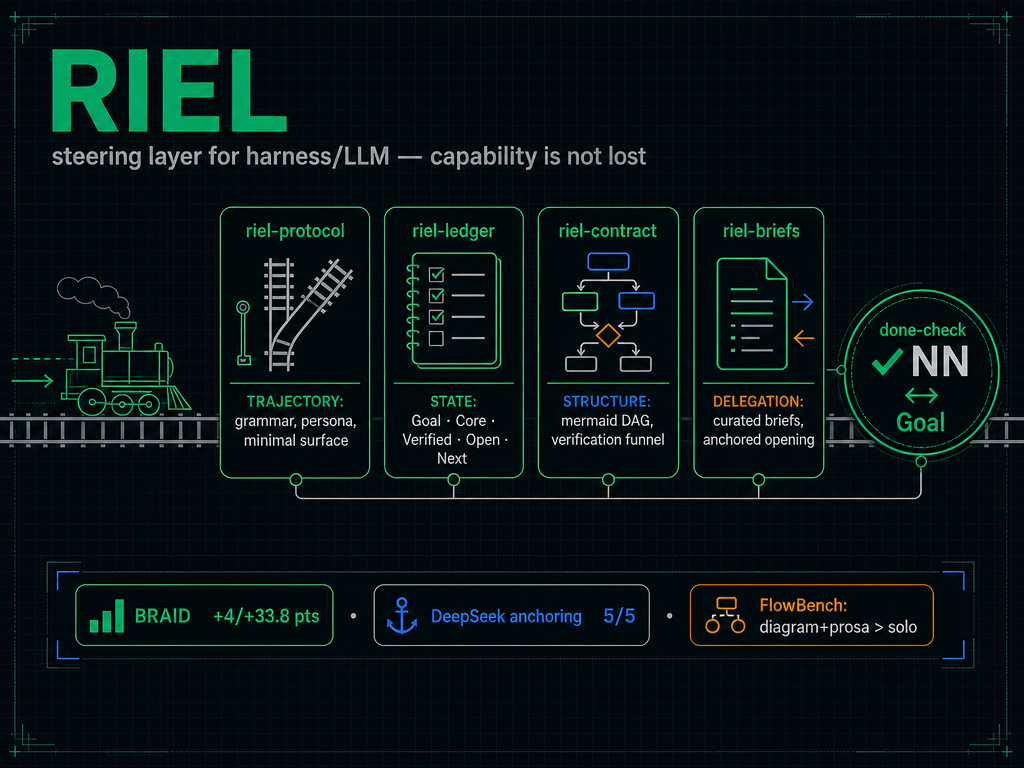
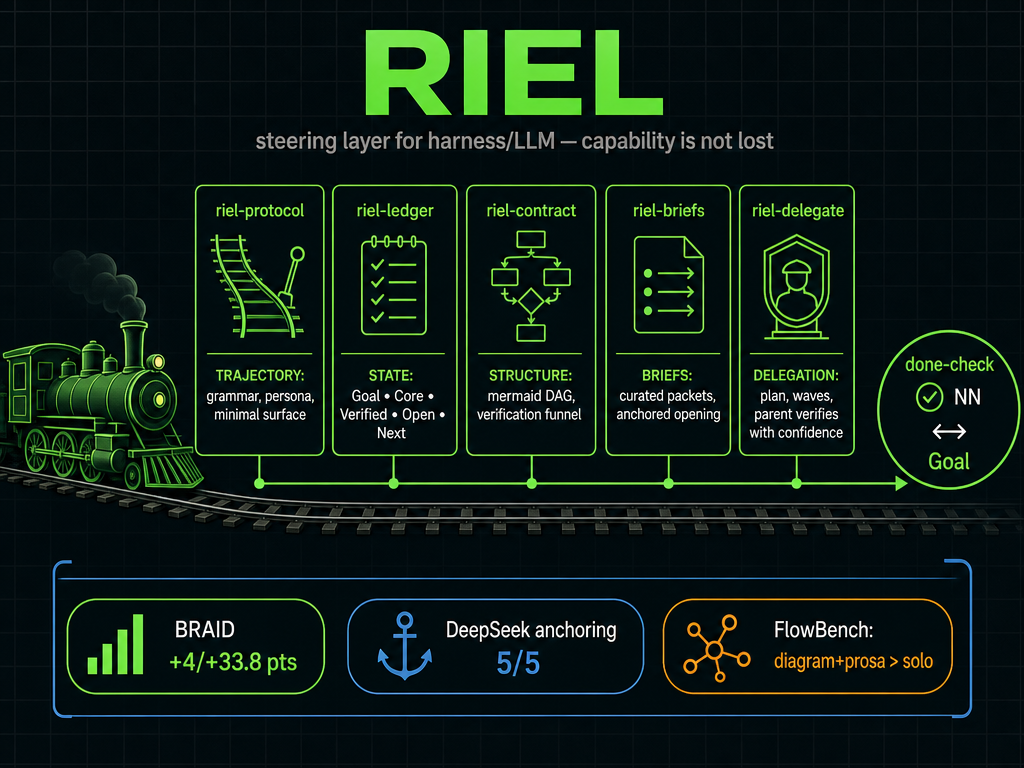
feat: add riel-delegate skill — delegation end-to-end + updated infographic
- riel-delegate: whole Riel framework applied to delegation (plan → brief → dispatch → verify → integrate), with parent-side verification (criteria decomposition + confidence X/20 + re-sample)
- consolidates subagent-wave-dispatch, parallel-subagent-test-authoring, delegated-implementation-planning into one entry-router skill
- README: add riel-delegate component, 5-component infographic, updated How-it-works diagrams, LLM-as-a-Verifier row now includes riel-delegate
- system-prompt: add riel-delegate line

diff --git a/skills/riel-delegate/SKILL.md b/skills/riel-delegate/SKILL.md
@@ -1,0 +1,161 @@
+---
+name: riel-delegate
+description: "Use when delegating to subagents — applies the whole Riel framework to delegation: plan phases as deliverables, dispatch riel-briefs packets, parent verifies returns with confidence X/20. Entry router for the delegation flow."
+version: 1.0.0
+author: Álvaro Lizama
+license: MIT
+metadata:
+  hermes:
+    tags: [riel, delegation, subagents, waves, verification, orchestration]
+    related_skills: [riel-protocol, riel-briefs, riel-contract, riel-ledger]
+---
+
+# riel-delegate — The whole Riel framework applied to delegation
+
+One skill to run Riel end-to-end when delegating to subagents. It does not
+recreate the framework — it orchestrates it: `riel-protocol` opens every
+brief, `riel-briefs` shapes the packet, `riel-contract` structures the
+phases, `riel-ledger` verifies what came back. The parent is the one
+capability that must not be lost: it plans, dispatches, verifies and
+integrates. Children are generators; the parent is the verifier.
+
+## Entry router
+
+```mermaid
+flowchart TD
+  Q{What do you need?} -->|"Plan phases as\\ndeliverables"| P[PLAN · riel-contract]
+  Q -->|"Write a dispatch\\npacket"| B[BRIEF · riel-briefs]
+  Q -->|"Dispatch waves"| D[DISPATCH · waves]
+  Q -->|"Verify what\\ncame back"| V[VERIFY · riel-ledger]
+  Q -->|"Integrate + commit"| I[INTEGRATE]
+  P --> D
+  B --> D
+  D --> V
+  V --> I
+
+  style V fill:#d1fae5,stroke:#059669
+```
+
+Run the sub-flow you landed on. The full cycle is PLAN → BRIEF → DISPATCH →
+VERIFY → INTEGRATE, in order — never skip VERIFY.
+
+## Parse contract
+
+### What this skill CONSUMES
+- A task to delegate (feature, fix, research, tests)
+- The Riel framework skills (`riel-protocol`, `riel-briefs`, `riel-contract`,
+  `riel-ledger`)
+
+### What this skill PRODUCES
+- A phase plan with per-phase "definición de done" + per-subagent mermaid
+- Self-contained dispatch packets (riel-briefs format)
+- A parent-side verification verdict per criterion (`confidence X/20`)
+- Commits per logical concern
+
+## The delegation cycle
+
+### 1. PLAN — phases are deliverables (riel-contract)
+
+- **Every phase = a complete deliverable** with a literal
+  "Entregable (definición de done)" line: what done means end-to-end and how
+  to verify it.
+- Phase → multiple subagents with **disjoint file scopes**, grouped in waves:
+  Wave 1 independent, Wave 2 depends on Wave 1.
+- Mermaid at THREE scales: master graph (whole plan), per-phase graph
+  (subagents + waves), per-subagent graph (that child's workflow). Follow
+  riel-contract conventions (`\n`, never `<br/>`, no `&`, closed verb
+  vocabulary, verification funnel before End).
+- Draw the association graph across scopes before splitting: any cross-edge
+  (a schema references a sibling's not-yet-written module) means the scopes
+  are NOT parallel-safe — that child goes in a later wave.
+
+### 2. BRIEF — self-contained packets (riel-briefs)
+
+Every child gets a standalone packet: `goal` opens with the shared objective
+("We need…"), `context` carries only what the first action needs, the exact
+files it may touch, copy-pasteable code, its verification command, its
+commit message, and a DO NOT section. Children have no session context — if
+the agent must ask "what do you mean?", the packet is incomplete.
+
+### 3. DISPATCH — waves, bounded and disjoint
+
+- 2-3 children per wave; **max 2 concurrent on a shared provider** (429s).
+- State disjoint file scopes literally; shared registry/index files are
+  PARENT work, never a child's.
+- Pre-warm slow toolchains (deps compile) before dispatching.
+- Children never commit and never run the full suite — targeted tests only;
+  the full suite is the parent's between-waves gate.
+
+### 4. VERIFY — the parent's job (riel-ledger)
+
+This is the step Riel exists for: the parent generated (dispatched) — now it
+must **discriminate which output is correct**. Binary "tests green" hides
+uncertainty the same way coarse scoring produces ties.
+
+**Decompose first.** Break the phase's definición de done into its verifiable
+criteria (each independent claim about "done").
+
+**Verify each criterion.** Run the gate yourself (compile + targeted tests +
+format + diff ⊆ scope). Assign `confidence X/20` to each criterion's verdict.
+
+**Re-sample borderline.** `confidence < 12/20` = borderline → re-sample with
+variation (a different angle, order, or question) before accepting. Never
+accept the same check repeated (churn); never advance on a borderline.
+
+**Triage failures.** Classify each failure:
+- **A — impl not yet present** (`UndefinedFunctionError` on a missing
+  module): check `git status`/`git diff` for the child's partial work;
+  finish it yourself or re-dispatch.
+- **B — impl buggy** (stacktrace points into `lib/`): fix it yourself with
+  `patch` — you own the whole repo.
+- **C — test/verification wrong**: fix the test yourself.
+
+Children are self-reports, not ground truth: re-run the FULL suite + compile
++ lint yourself after every wave, before the next.
+
+### 5. INTEGRATE & COMMIT
+
+- Run the full gate **unpiped** (check the exit code explicitly — never pipe
+  into `tail` and commit; the pipeline masks the exit status).
+- One commit per logical concern; children never commit.
+- If a child timed out with files on disk (Pattern A: many calls, files
+  exist), inventory the diff and complete it yourself — do not re-dispatch.
+
+## Pitfalls (the ones that cost the most)
+
+- **Trusting the child's "all tests pass".** Re-run everything yourself.
+- **Overlapping scopes.** File-level disjointness, not task-level. A child
+  recovering via `git checkout` destroys sibling work in the same files.
+- **Children self-verifying with the full suite.** They die mid-verification
+  at the cap with work 100% done. Targeted tests only.
+- **Letting children commit.** Git-index races bundle files into one commit.
+- **Oversized goals get silently truncated** to literal `"...truncated..."`.
+  Anything beyond ~10 lines of instructions goes in a spec file; the goal
+  points at it ("Lee <path> y ejecútalo al pie de la letra…").
+- **429s on shared providers.** Max 2 concurrent; re-dispatch killed children
+  sequentially; check disk before re-dispatching "failed" children (zombies
+  may have finished and written their files).
+- **Piping the gate into `tail`/`head`.** Masks the exit code and always
+  commits a red gate.
+- **Empty Next / no ledger after the wave.** If the wave spans phases, the
+  parent keeps a local ledger (riel-ledger): Goal, Verified with confidence,
+  Next. The parent's state is as loss-prone as a child's.
+
+## Checklist
+
+- [ ] Phases are complete deliverables with definición de done
+- [ ] Scopes disjoint at file level; shared files are parent work
+- [ ] Every child gets a self-contained riel-briefs packet (goal + context + code + verify + DO NOT)
+- [ ] Mermaid at 3 scales, riel-contract conventions
+- [ ] Children never commit, never run the full suite
+- [ ] Parent verified: decomposed criteria + `confidence X/20` per criterion
+- [ ] Borderline (`< 12/20`) re-sampled with variation before advancing
+- [ ] Failures triaged A/B/C; B fixed by parent, not re-dispatched
+- [ ] Full gate re-run unpiped; commit per logical concern
+
+## Cross-references
+
+- The packet format: `riel-briefs`
+- Opening conditions and functional grammar: `riel-protocol`
+- Mermaid contract conventions: `riel-contract`
+- The ✓NN + confidence + re-sample rules: `riel-ledger`

diff --git a/README.md b/README.md
@@ -28,6 +28,7 @@ flowchart LR
   B["riel-briefs\ndelegation briefs"] -.->|"when delegating"| P
   P --> LLM["LLM / harness\n(DeepSeek or other)"]
   C["riel-contract\nmermaid DAG as contract\nverb-graph · verification funnel"] -.->|"task structure"| LLM
+  D["riel-delegate\nplan · dispatch waves\nparent verifies with confidence"] -.->|"when delegating\nto subagents"| LLM
   LLM <-->|"re-read at every seam"| LEDGER["riel-ledger\n.riel/ledger.md\nGoal · Core · Verified\nOpen · Next"]
   LEDGER --> DC["done-check\n✓NN ↔ Goal, line by line"]
   DC -->|"adapter writeback"| REMOTE["remote\ncheckboxes + status\n(adapter's job)"]
@@ -43,6 +44,7 @@ flowchart TD
   subgraph S2["Surface 2 — task structure"]
     B["riel-contract: mermaid DAG,\n6 verbs, verification funnel"]
     C["riel-briefs: curated context,\ngates, anchored opening"]
+    E["riel-delegate: plan phases,\ndispatch waves, parent verifies"]
   end
   subgraph S3["Surface 3 — between-turn state"]
     D["riel-ledger: Goal/Core/Verified/\nOpen/Next + recovery checkpoints"]
@@ -60,9 +62,10 @@ flowchart TD
 | `riel-ledger` | **State** — Goal/Core/Verified/Open/Next, re-read at every seam; recovery via checkpoints; local-first, no remote dependency | the track level | ✅ skill v1.2 + specs |
 | `riel-contract` | **Structure** — mermaid as contract, verification funnel, BRAID/FlowBench evidence | the rails themselves | ✅ skill v3.0 |
 | `riel-briefs` | **Delegation briefs** — curated context, verb-graph, gates, anchored opening | the signage | ✅ skill v3.0 |
+| `riel-delegate` | **Delegation end-to-end** — plan phases as deliverables, dispatch waves, parent verifies returns with confidence | the guard | ✅ skill v1.0 |
 
 Each component is **independent and optional**: a short task uses zero;
-a long loop may use all four. Inherited philosophy: "use only the machinery
+a long loop may use all five. Inherited philosophy: "use only the machinery
 the task earns".
 
 ## The ledger cycle (heart of the framework)
@@ -176,7 +179,8 @@ riel/
 │   ├── riel-protocol/   ← trajectory: grammar, persona, minimal surface
 │   ├── riel-ledger/     ← state: local Goal/Core/Verified/Open/Next + recovery
 │   ├── riel-contract/   ← structure: mermaid contract + verification funnel
-│   └── riel-briefs/     ← delegation briefs with anchored opening
+│   ├── riel-briefs/     ← delegation briefs with anchored opening
+│   └── riel-delegate/   ← delegation end-to-end: plan + dispatch + parent verification
 ├── specs/             ← design contracts (source of the patches)
 │   ├── spec-ledger-format.md    ← .riel/ledger.md format + rules + git hygiene
 │   ├── spec-todo-contract.md    ← what the todo body must carry → todo-flow patch
@@ -204,7 +208,7 @@ riel/
 | Long-horizon agent failures ([arXiv:2607.05775](https://arxiv.org/abs/2607.05775), [arXiv:2607.00692](https://arxiv.org/abs/2607.00692), [arXiv:2607.08964](https://arxiv.org/abs/2607.08964)) | Context-handling gap, no-recovery bottleneck, completion overestimation → ledger fields, recovery protocol, done-check | `riel-ledger` |
 | Re-reading the input ([arXiv:2309.06275](https://arxiv.org/abs/2309.06275)) | Re-reading improves reasoning across 14 datasets → the seam re-read | `riel-ledger` |
 | METR GPT-5 evaluation report | The recovery template: "Stop. Focus. Return to step by step" — fresh plan, re-enter at step 1 | `riel-ledger` |
-| Kwok et al., *LLM-as-a-Verifier* ([arXiv:2607.05391](https://arxiv.org/abs/2607.05391)) | Verification is the bottleneck, not generation (agents already solve; they can't tell which output is correct). 27% tie-rate from coarse scoring; fine granularity (1–20) + criteria decomposition + repeated evaluation each scale verification; two-stage workaround for closed models | `riel-ledger`, `riel-contract` |
+| Kwok et al., *LLM-as-a-Verifier* ([arXiv:2607.05391](https://arxiv.org/abs/2607.05391)) | Verification is the bottleneck, not generation (agents already solve; they can't tell which output is correct). 27% tie-rate from coarse scoring; fine granularity (1–20) + criteria decomposition + repeated evaluation each scale verification; two-stage workaround for closed models | `riel-ledger`, `riel-contract`, `riel-delegate` |
 
 Full distillation of the 24 verified sources lives in the local
 `references/` directory.

diff --git a/system-prompt.md b/system-prompt.md
@@ -23,6 +23,9 @@ When operating on any LLM conversation or task, follow the Riel framework
    in VERIFY nodes before End.
 4. riel-briefs — when delegating, briefs are self-contained: curated
    context, executable gates, explicit DO NOT.
+5. riel-delegate — when delegating to subagents, run the full cycle:
+   plan phases as deliverables, dispatch waves, and verify returns yourself
+   with confidence; never trust a child's self-report.
 
 Riel never rewrites capability in — it only prevents it from being lost.
 ```
